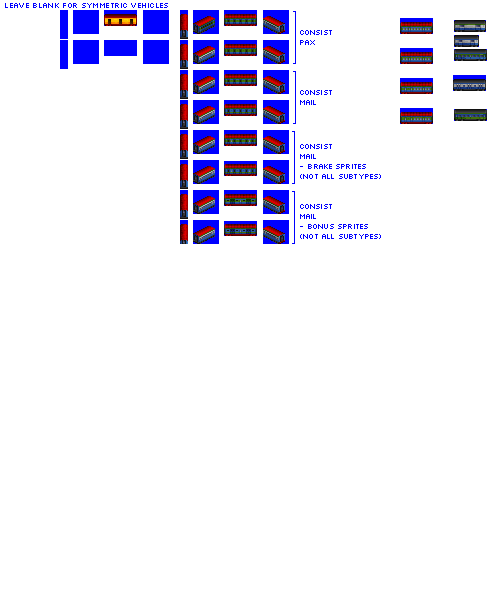
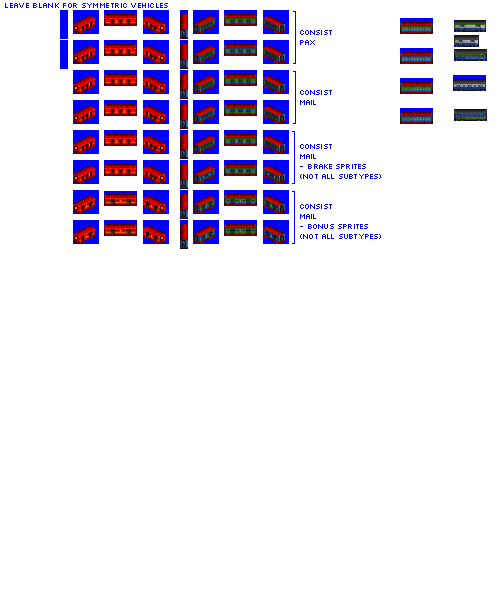
Change: sprites complete for gen 3C mail car

diff --git a/src/vehicles/mail_cars.py b/src/vehicles/mail_cars.py
@@ -85,7 +85,8 @@ def main():
     consist = MailCarConsist(roster='pony',
                              base_numeric_id=940,
                              gen=3,
-                             subtype='C')
+                             subtype='C',
+                             sprites_complete=True)
 
     consist.add_unit(type=PaxMailCar,
                      capacity=15,
